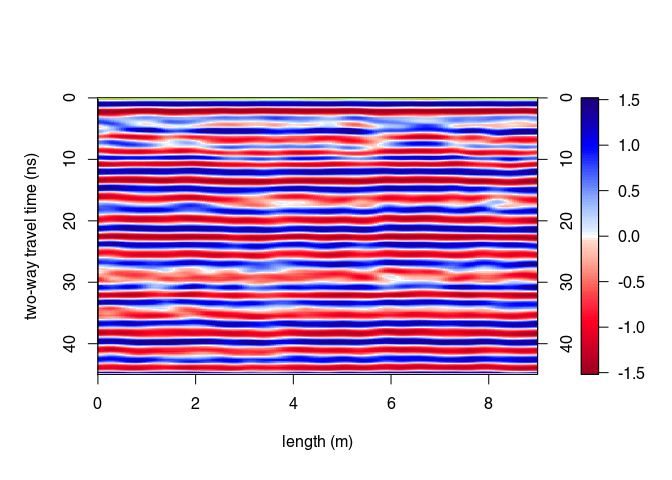
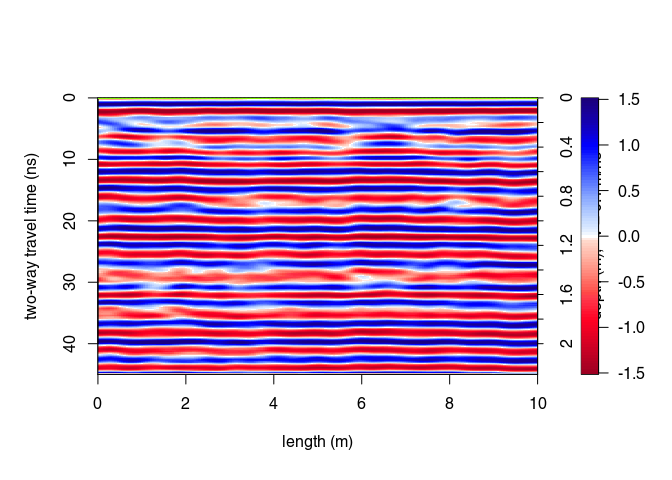
add examples how to set a grid and export as raster

diff --git a/05_RGPR_tutorial_GPR-data-time-slice-interpolation-3D.md b/05_RGPR_tutorial_GPR-data-time-slice-interpolation-3D.md
@@ -1,7 +1,7 @@
 ---
 layout: page
 title: Time/depth slice interpolation
-date: 2020-08-14
+date: 2021-03-10
 ---
 
 ------------------------------------------------------------------------
@@ -26,6 +26,7 @@ Table of Contents
     -   [Set grid coordinaes](#set-grid-coordinaes)
 -   [Basic processing](#basic-processing)
 -   [Time/depth slice interpolation](#timedepth-slice-interpolation)
+-   [Export slices as raster](#export-slices-as-raster)
 
 Objectives of this tutorial
 ===========================
@@ -60,7 +61,7 @@ Set the working directory
 The working directory must be correctly set to use relative filepaths. The working directory can be set either in your R-software or in R directly with (of course you need to adapt the filepath shown below to your system):
 
 ``` r
-myDir <- file.path("your_dir_path/GPRdata-master/exampleDataCube"))
+myDir <- file.path("your_dir_path/GPRdata-master/exampleDataCube")
 setwd(myDir)    # set the working directory
 getwd()         # Return the current working directory (just to check)
 ```
@@ -180,43 +181,50 @@ Set grid coordinaes
 
 To set the grid coordinates, use the function `setGridCoord()` and assign the grid specifications in the form of a list. This list takes for arguments:
 
--   `xlines`: integer values corresponding to the x-lines in the `GPRsurvey` object (if there is no x-lines, set `xlines = NULL`).
--   `xpos`: the position of the x-lines along the x-axis (if there is no x-lines, set `xpos = NULL`).
--   `ylines`: integer values corresponding to the x-lines in the `GPRsurvey` object (if there is no y-lines, set `ylines = NULL`).
--   `ypos`: the position of the x-lines along the x-axis.
+-   `xlines`: integer values corresponding to the x-lines in the `GPRsurvey` object (if there are no x-lines, no need to specify `xlines`).
+-   `xpos`: the position of the x-lines along the x-axis, same length as `xlines` (if there are no x-lines, no need to specify `xpos`).
+-   `xstart`: shift to apply along the y-position, useful if the lines do not start at the same position; same length as `xlines`
+-   `ylines`: integer values corresponding to the x-lines in the `GPRsurvey` object (if there are no y-lines, no need to specify `ylines`).
+-   `ypos`: the position of the x-lines along the x-axis, same length as `ylines` (if there are no &lt;-lines, no need to specify `ypos`).
+-   `ystart`: shift to apply along the x-position, useful if the lines do not start at the same position; same length as `ylines`
 
 For example, if your data were collected as follows:
 
--   10 x-lines with line spacing = 2 m
--   5 ylines at positions 0 m, 1 m, 2 m, 4 m, and 6 m
+-   10 x-lines with line spacing = 2 m; the 3rd and 5th lines start 1 m after the other lines.
+-   5 ylines at positions 0 m, 1 m, 2 m, 4 m, and 6 m; the 1st line start 2 m before the other lines.
 
 ``` r
 setGridCoord(SU) <- list(xlines = 1:10,
-                         xpos   = seq(0,
-                                      by = 2,
-                                      length.out = 10),
+                         xpos   = seq(0, by = 2, length.out = 10),
+                         xstart = c(0, 0, 1, 0, 1, 0, 0, 0, 0, 0)
                          ylines = 15 + (1:10),
-                         ypos   = c(0, 1, 2, 4, 6))
+                         ypos   = c(0, 1, 2, 4, 6),
+                         ystart = c(-2, 0, 0, 0, 0))
 ```
 
-In our case we have only x-lines, so we set `ylines` and `ypos` equal to `NULL`:
+In our case we have only x-lines, so we don't specify `ylines`, `ypos`, and `ystart`. The 5th, 8th, 22th lines starts 1 m after the others; the 1st, 28th, 33rd, 38th, and 44th lines start 0.4 m after the others:
 
 ``` r
+# define xstart
+xstart <- rep(0, length(SU))
+xstart[c(5, 8, 22)] <- 1
+xstart[c(1, 28, 33, 38, 44)] <- 0.4
 setGridCoord(SU) <- list(xlines = seq_along(SU),
-                         xpos   = seq(0,
-                                      by = 0.2,
-                                      length.out = length(SU)),
-                         ylines = NULL,
-                         ypos   = NULL)
+                         xpos   = seq(0, by = 0.2, length.out = length(SU)),
+                         xstart = xstart)
 ```
 
 Now you can plot your survey data (because you have coordinates)
 
 ``` r
-plot(SU, asp = TRUE)
+plot(SU, asp = TRUE, parFid = NULL)
 ```
 
 ![](05_RGPR_tutorial_GPR-data-time-slice-interpolation-3D_tp_files/figure-markdown_github/unnamed-chunk-11-1.png)
+
+    ## [1] "ASP TRUE"
+
+We set `parFid = NULL` because we do not want to plot all the fiducial markers
 
 If you want to shift the coordinates by 1 m along x-direction, 0.5 m along the y-direction for your 3rd GPR data line, use `tpShift()` as follows
 
@@ -275,9 +283,9 @@ SXY
 ```
 
     ## *** Class GPRcube ***
-    ## dim:    180 x 180 x 901
-    ## res:    0.0502793296089385 m x 0.0502793296089385 m x 0.05 ns
-    ## extent: 9 m x 9 m x 45 ns
+    ## dim:    180 x 200 x 901
+    ## res:    0.0502793296089385 m x 0.050251256281407 m x 0.05 ns
+    ## extent: 9 m x 10 m x 45 ns
     ## crs:
     ## *********************
 
@@ -338,3 +346,34 @@ plot(SXY[,,50], clim = clim, col = palGPR("slice"), asp = 1)
 ```
 
 ![](05_RGPR_tutorial_GPR-data-time-slice-interpolation-3D_tp_files/figure-markdown_github/unnamed-chunk-22-2.png)
+
+Export slices as raster
+=======================
+
+You first need to convert the slice you want to export into a raster object in R (defined in the `raster` package):
+
+``` r
+r <- as.raster(SXY[,,10])
+```
+
+Then, use the `writeRaster()` function of the `raster` package to export the slice in the raster format you like (check the help on this function, `?raster::writeRaster`):
+
+``` r
+raster::writeRaster(r, filename = "slice10.tif")
+```
+
+You may also want to export the coordinates as shapefiles or geodata, as lines
+
+``` r
+exportCoord(SU, type = c("SpatialLines"), fPath = "myshapefile.shp",
+            driver = "ESRI Shapefile")
+```
+
+... or as points
+
+``` r
+exportCoord(SU, type = c("SpatialPoints"), fPath = "myshapefile.shp",
+            driver = "ESRI Shapefile")
+```
+
+Adapt the driver and the filename extension to your need (for that, check the help on the `rgdal::writeOGR()` function).
